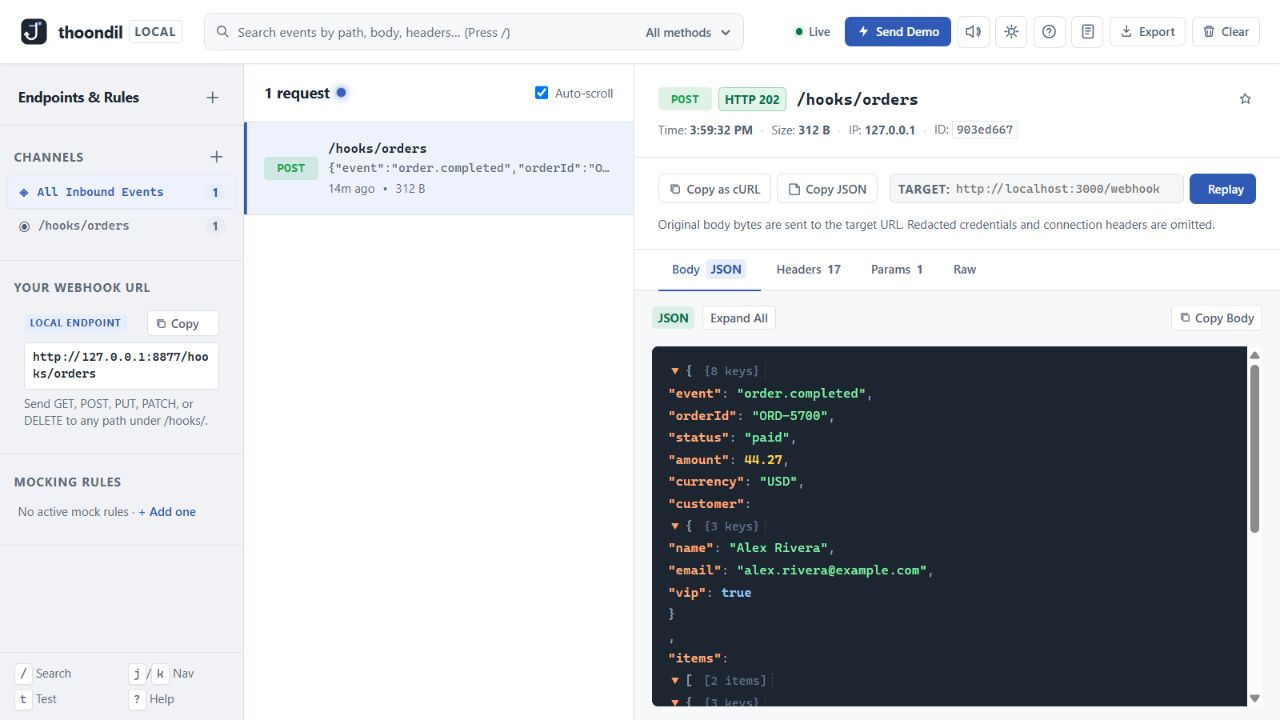
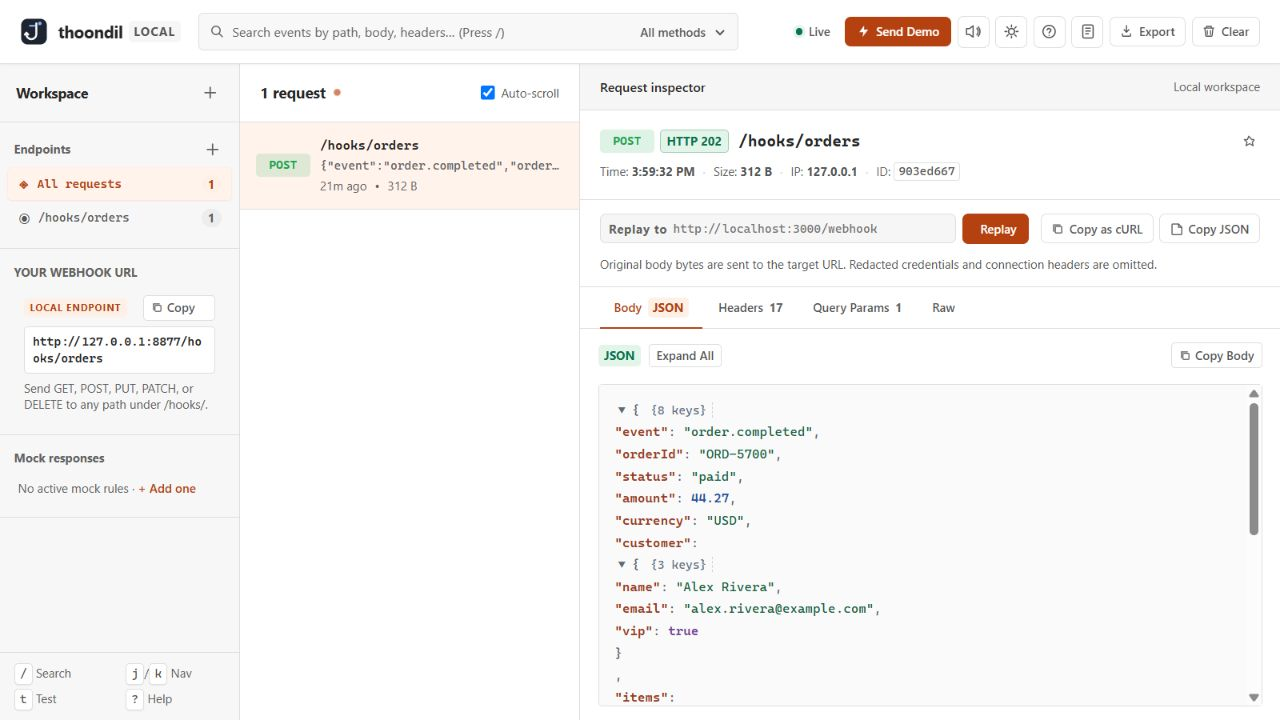
Adapt workspace to familiar API client patterns

diff --git a/static/redesign.css b/static/redesign.css
@@ -105,3 +105,63 @@ body { font-size:13px; }
   .mobile-menu-open .sidebar { top:calc(var(--topbar-h) + 90px); }
 }
 @media(prefers-reduced-motion:reduce) { *,*::before,*::after { animation-duration:.01ms !important; transition-duration:.01ms !important; scroll-behavior:auto !important; } }
+
+/* Familiar API workbench conventions, adapted to received webhooks. */
+:root, [data-theme="warm-sand"] {
+  --bg-base:#f8f8f8; --bg-sidebar:#f7f7f7; --bg-card:#fff;
+  --bg-hover:#ededed; --bg-selected:#fff3ec; --bg-subtle:#f6f6f6;
+  --primary:#b54010; --primary-hover:#96340d; --primary-soft:#fff0e7;
+  --primary-glow:rgba(201,76,23,.15); --text-primary:#262626;
+  --text-secondary:#555; --text-muted:#626262; --border:#dedede;
+  --border-bright:#b8b8b8; --border-focus:#c94c17;
+  --bg-code:#fafafa;
+}
+[data-theme="obsidian"] {
+  --bg-base:#1b1b1b; --bg-sidebar:#202020; --bg-card:#252525;
+  --bg-hover:#343434; --bg-selected:#433027; --bg-subtle:#303030;
+  --bg-code:#1d1d1d; --primary:#ffad85; --primary-hover:#ffc3a3;
+  --primary-soft:#533627; --text-primary:#eee; --text-secondary:#c6c6c6;
+  --text-muted:#bdbdbd; --border:#454545; --border-bright:#777;
+}
+.topbar { background:var(--bg-card); gap:18px; }
+.brand-pill { border:0; background:var(--bg-subtle); }
+.search-bar { border-radius:5px; }
+.workspace { grid-template-columns:240px minmax(280px,340px) minmax(0,1fr); }
+.sidebar-header { min-height:58px; padding:14px 16px; }
+.sidebar-section { padding:14px 0; }
+.sidebar-label { text-transform:none; font-size:12px; letter-spacing:0; }
+.channel-item.active { background:var(--bg-selected); color:var(--primary); }
+.event-list-header { min-height:58px; }
+.event-list-pane,.inspector-pane { background:var(--bg-card); }
+.event-item { padding:14px 16px; }
+.event-item.selected { box-shadow:none; background:var(--bg-selected); border-bottom:1px solid var(--border); }
+.workbench-bar { display:flex; align-items:center; justify-content:space-between; min-height:46px; padding:0 20px; border-bottom:1px solid var(--border); background:var(--bg-subtle); color:var(--text-primary); font-size:13px; font-weight:600; }
+.workbench-context { color:var(--text-muted); font-size:12px; font-weight:400; }
+.inspector-header { padding:18px 20px; }
+.inspector-actions { padding:14px 20px; }
+.replay-group { order:-1; }
+.replay-prefix { text-transform:none; }
+.inspector-tabs { padding-left:20px; }
+.tab-content { padding:16px 20px; }
+.body-viewer,.raw-viewer { border:1px solid var(--border); border-radius:4px; color:var(--text-primary); background:var(--bg-code); }
+.json-key { color:#9b3c22; } .json-string { color:#17623c; }
+.json-number { color:#2854a0; } .json-boolean,.json-null { color:#75449c; }
+.json-punctuation { color:#59636c; } .json-children { border-color:#ccd1d5; }
+.json-toggle { color:#606a73; } .json-toggle:hover { color:var(--text-primary); }
+[data-theme="obsidian"] .json-key { color:#ffad85; }
+[data-theme="obsidian"] .json-string { color:#a4e3b7; }
+[data-theme="obsidian"] .json-number { color:#a9c8ff; }
+[data-theme="obsidian"] .json-boolean,[data-theme="obsidian"] .json-null { color:#d8b6ff; }
+[data-theme="obsidian"] .json-punctuation,[data-theme="obsidian"] .json-toggle { color:#c2c2c2; }
+.curl-box { background:#252525; }
+@media(max-width:960px) { .workspace { grid-template-columns:minmax(280px,340px) minmax(0,1fr); } }
+@media(max-width:680px) {
+  .workspace { grid-template-columns:1fr; }
+  .workbench-bar { min-height:42px; padding:0 16px; }
+  .workbench-context { display:none; }
+  .inspector-header,.inspector-actions { padding:14px 16px; }
+  .inspector-tabs { padding-left:16px; overflow-x:auto; scrollbar-width:none; }
+  .inspector-tabs::-webkit-scrollbar { display:none; }
+  .tab-btn { white-space:nowrap; }
+  .tab-content { padding:16px; }
+}

diff --git a/static/index.html b/static/index.html
@@ -105,7 +105,7 @@
       <!-- LEFT SIDEBAR: Channels & Rules -->
       <aside class="sidebar" id="mobile-tools" aria-label="Sidebar navigation">
         <div class="sidebar-header">
-          <span class="sidebar-title">Endpoints &amp; Rules</span>
+          <span class="sidebar-title">Workspace</span>
           <button id="btn-add-mock" class="btn-icon-subtle" title="Create response mocking rule">
             <svg viewBox="0 0 16 16" fill="none"><path d="M8 2v12M2 8h12" stroke="currentColor" stroke-width="1.6" stroke-linecap="round"/></svg>
             <span class="sr-only">Add Mock Rule</span>
@@ -115,7 +115,7 @@
         <!-- Endpoints Group -->
         <div class="sidebar-section">
           <div class="sidebar-section-header">
-            <div class="sidebar-label">CHANNELS</div>
+            <div class="sidebar-label">Endpoints</div>
             <button id="btn-add-channel" class="btn-icon-subtle" title="Create a new named channel">
               <svg viewBox="0 0 16 16" fill="none"><path d="M8 2v12M2 8h12" stroke="currentColor" stroke-width="1.6" stroke-linecap="round"/></svg>
               <span class="sr-only">Add Channel</span>
@@ -124,7 +124,7 @@
           <ul id="channel-list" class="channel-list">
             <li class="channel-item active" data-channel="all" role="button" tabindex="0">
               <span class="channel-icon">◈</span>
-              <span class="channel-name">All Inbound Events</span>
+              <span class="channel-name">All requests</span>
               <span class="channel-badge" id="badge-all">0</span>
             </li>
           </ul>
@@ -148,7 +148,7 @@
 
         <!-- Mock Rules -->
         <div class="sidebar-section">
-          <div class="sidebar-label">MOCKING RULES</div>
+          <div class="sidebar-label">Mock responses</div>
           <ul id="mock-rules-list" class="mock-rules-list">
             <li class="mock-empty">No active mock rules · <a href="#" id="mock-empty-add" class="mock-add-link">+ Add one</a></li>
           </ul>
@@ -210,6 +210,7 @@
       <!-- RIGHT PANE: Event Inspector -->
       <section class="inspector-pane" id="inspector" aria-label="Request details inspector">
         <button id="btn-back-feed" class="mobile-back" type="button">← Back to requests</button>
+        <div class="workbench-bar"><span>Request inspector</span><span class="workbench-context">Local workspace</span></div>
         <!-- Inspector Unselected State -->
         <div id="inspector-empty" class="inspector-empty">
           <div class="inspector-empty-inner">
@@ -261,7 +262,7 @@
             <!-- Forward / Replay to Localhost -->
             <div class="replay-group">
               <div class="replay-input-wrap">
-                <span class="replay-prefix">TARGET:</span>
+              <span class="replay-prefix">Replay to</span>
                 <input id="replay-url" type="text" aria-label="Replay target URL" placeholder="http://localhost:3000/webhook" class="replay-input" spellcheck="false" />
               </div>
               <button id="btn-replay" class="btn-primary btn-replay" title="Forward this captured event to your local app">
@@ -286,7 +287,7 @@
               <span id="tab-headers-count" class="tab-badge-num">0</span>
             </button>
             <button class="tab-btn" data-tab="query" role="tab" aria-selected="false">
-              <span>Params</span>
+            <span>Query Params</span>
               <span id="tab-query-count" class="tab-badge-num">0</span>
             </button>
             <button class="tab-btn" data-tab="raw" role="tab" aria-selected="false">
